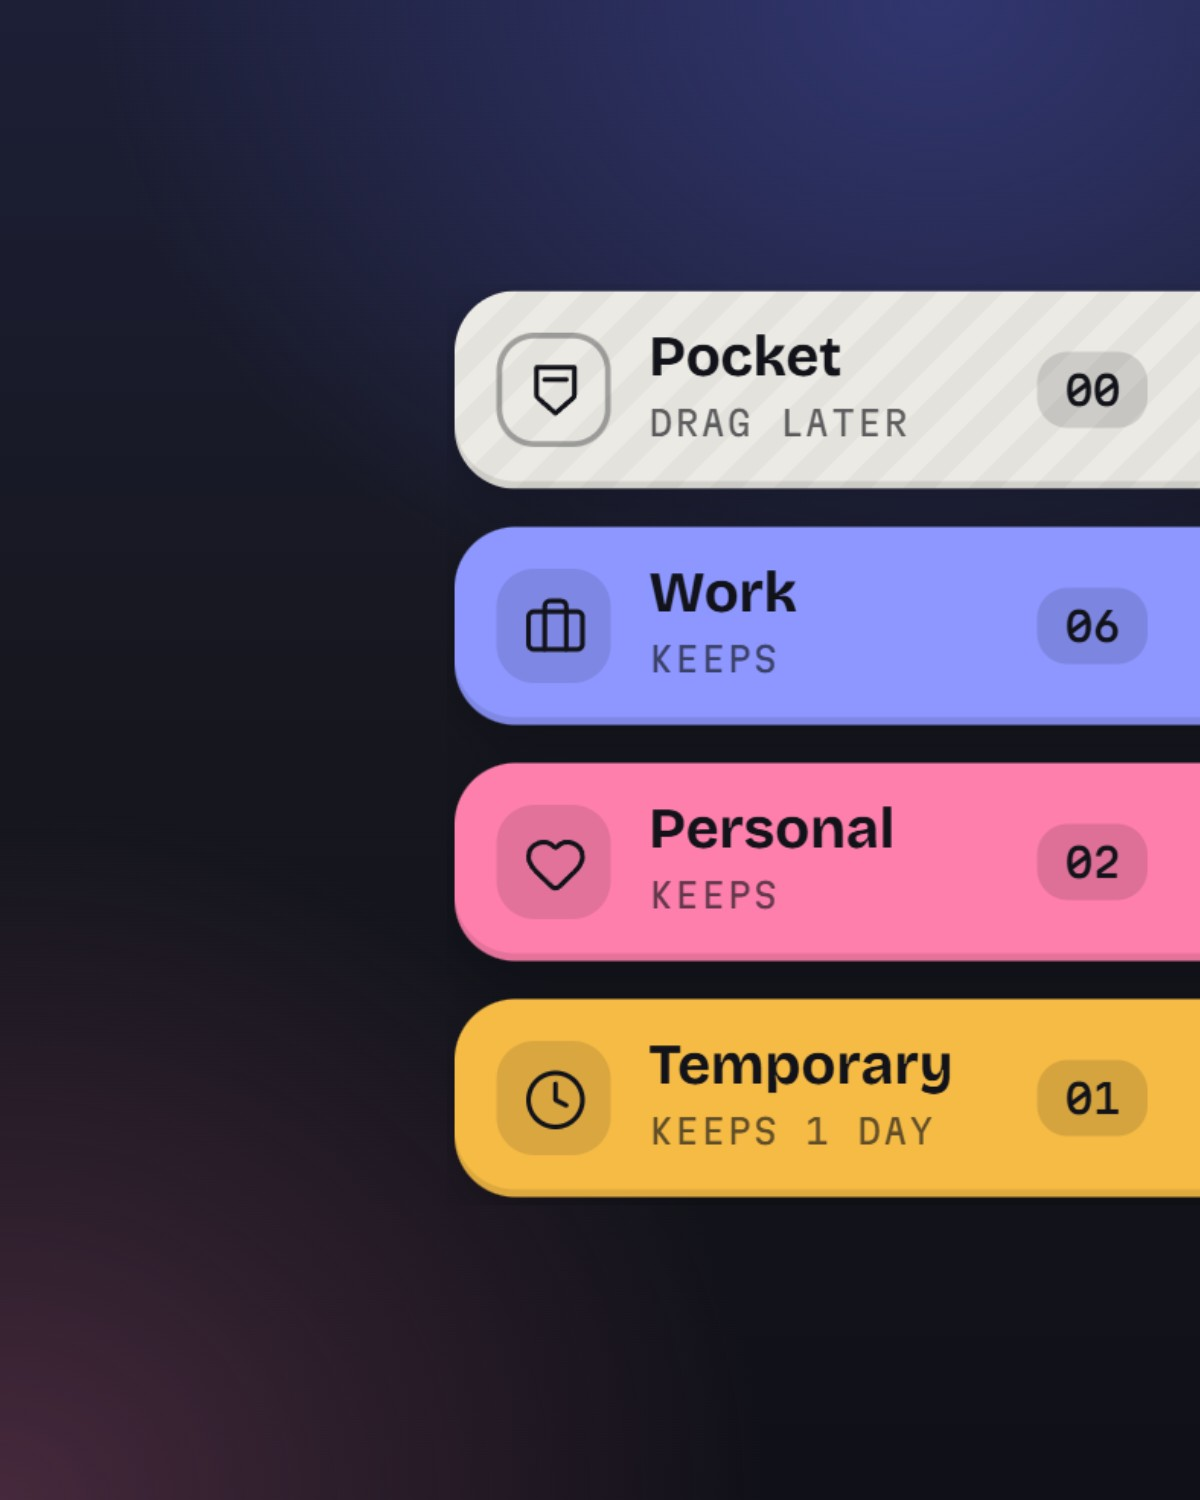
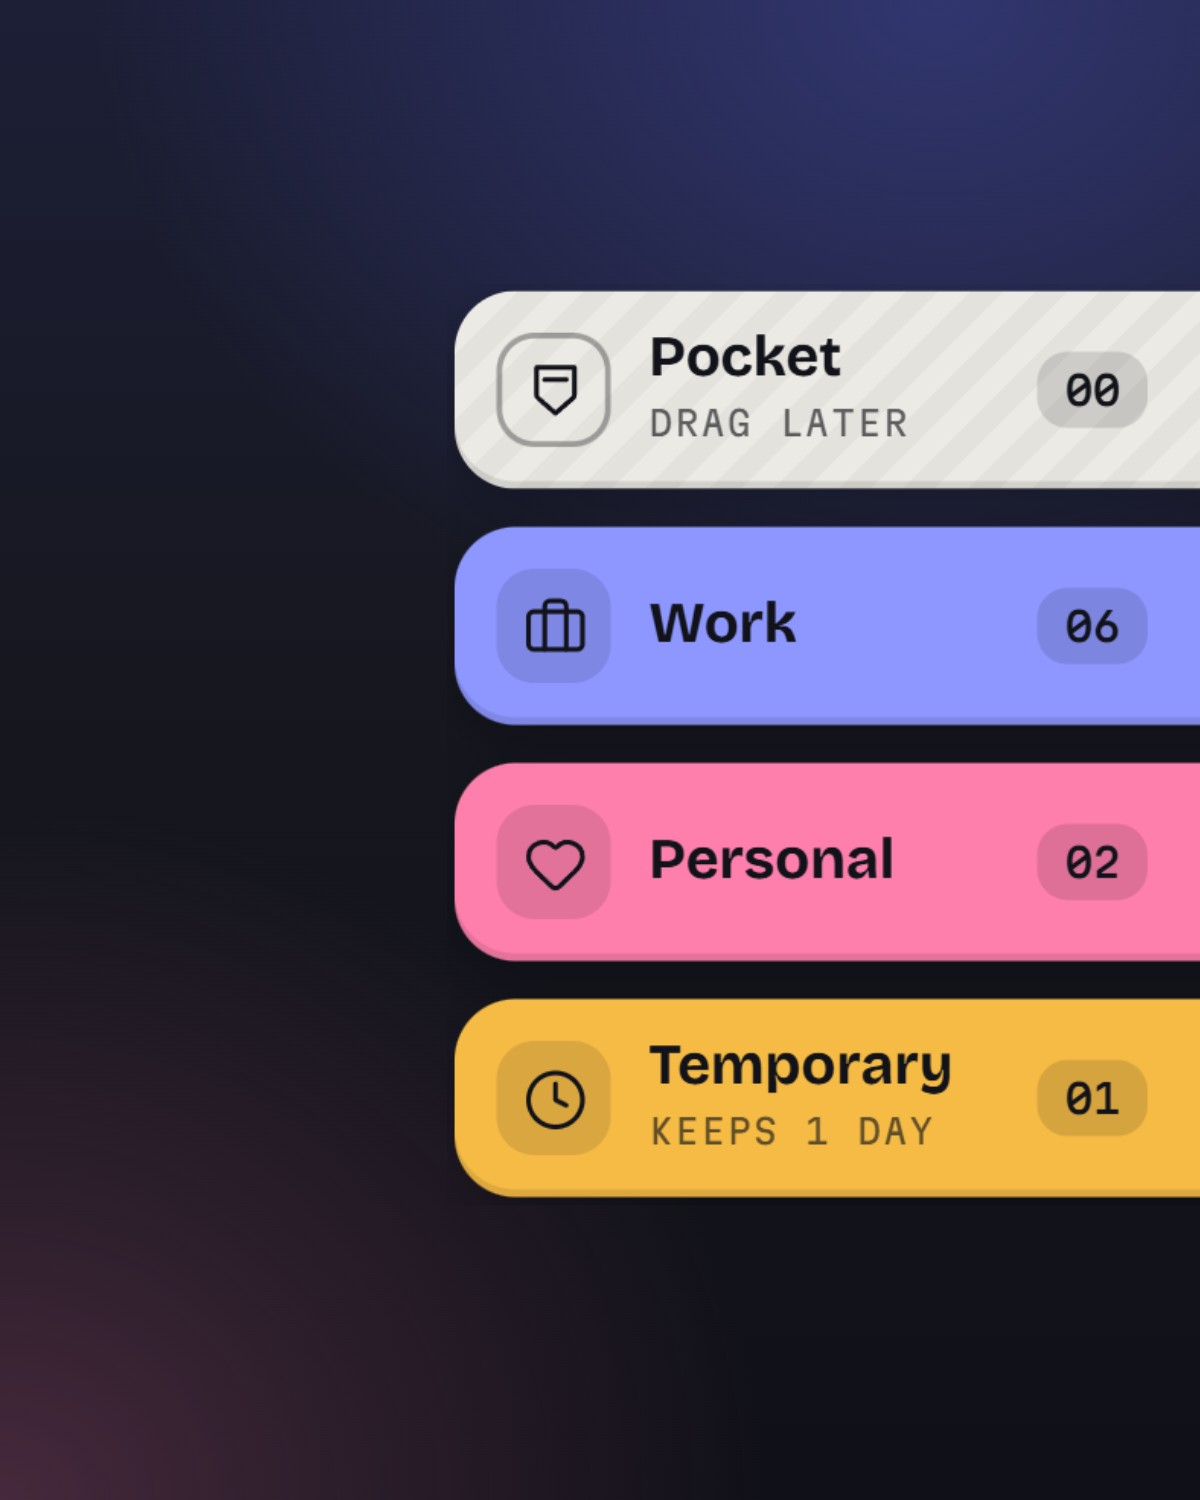
Screens for Wedge 2.1.2: plain shelves show just the name, the new tab details switch

Changed region(s): [[0.5242, 0.5213, 0.74, 0.6133], [0.5242, 0.368, 0.6783, 0.46]]

diff --git a/src/lib/constants.ts b/src/lib/constants.ts
@@ -13,7 +13,7 @@ export const SITE = {
   // In the Store as Wedge Shelf ("Wedge" was taken).
   msStore: 'https://apps.microsoft.com/detail/9nkp6wx9qgl7',
   repo: 'Regncreative/Wedge',
-  versionFallback: '2.1.1',
+  versionFallback: '2.1.2',
   shortcut: 'Ctrl+Shift+Space',
   productHunt: 'https://www.producthunt.com/products/stash-20',
 } as const
